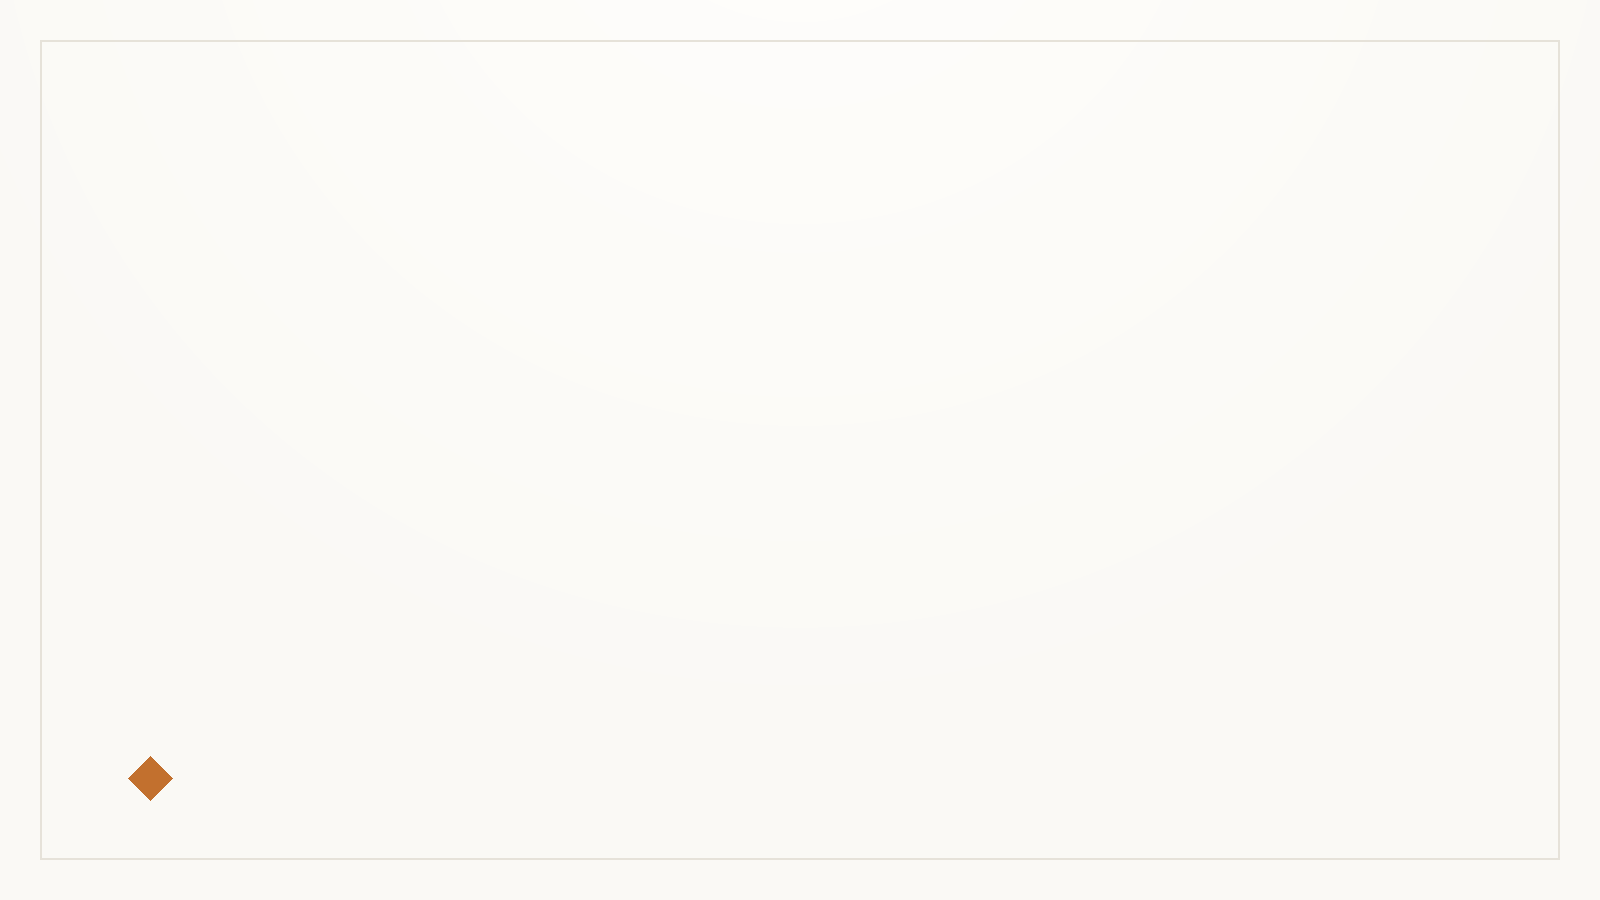
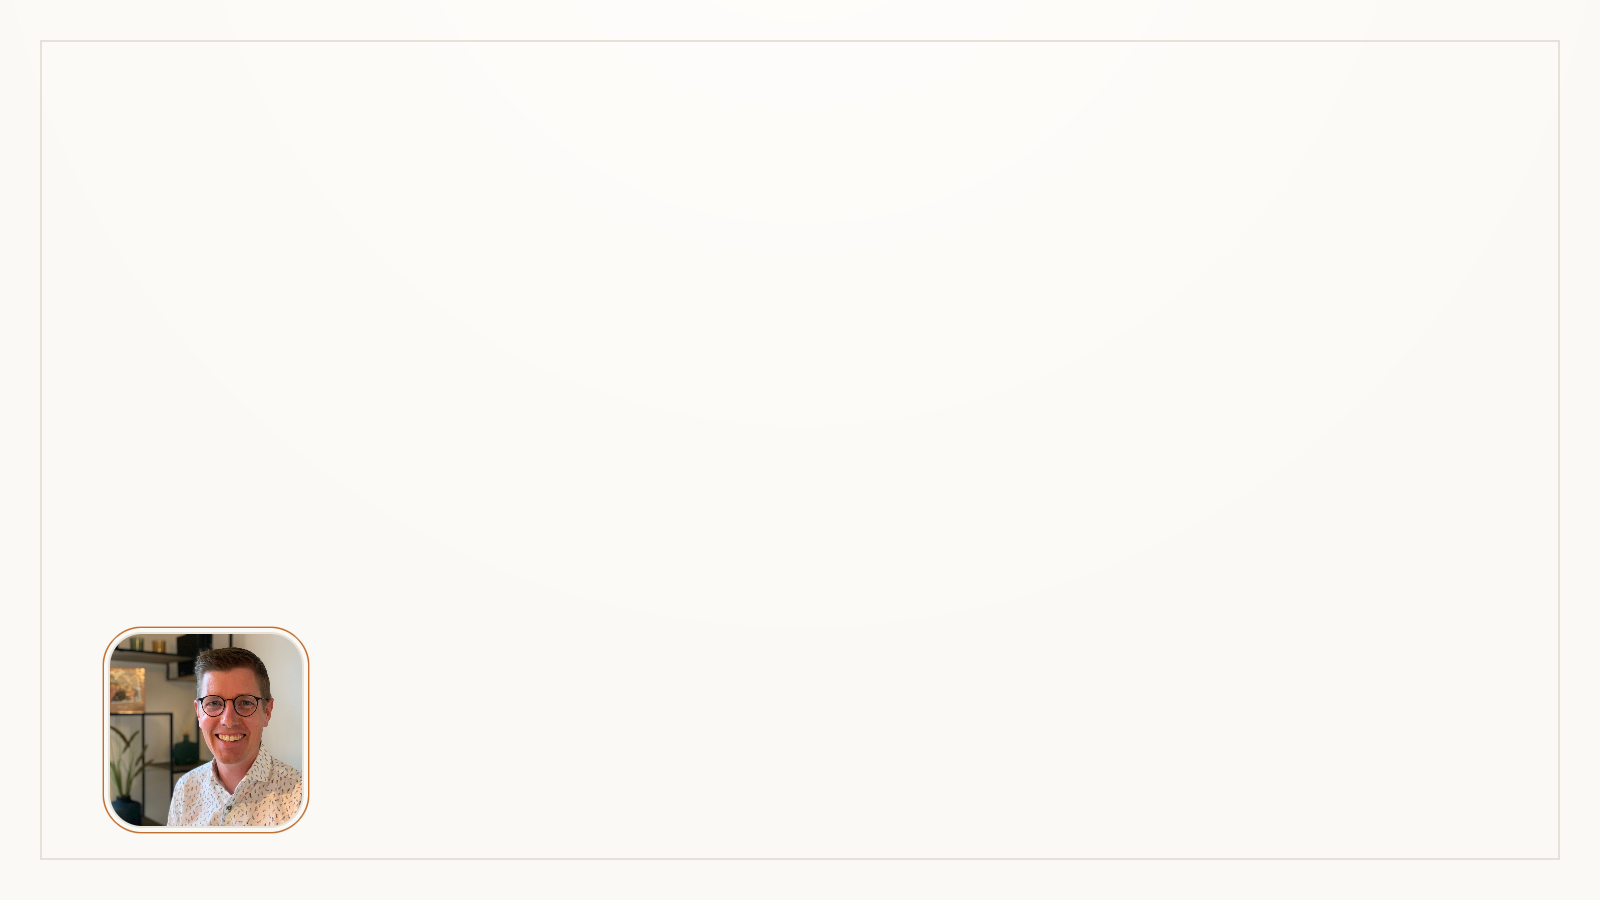
feat: Add profile picture to social images

Changed region(s): [[0.0625, 0.6844, 0.2188, 0.9333]]

diff --git a/layouts/partials/opengraph/get-featured-image.html b/layouts/partials/opengraph/get-featured-image.html
@@ -14,8 +14,8 @@
     "color" "#13202f"
     "size" 60
     "linespacing" 2
-    "x" 195
-    "y" 740
+    "x" 360
+    "y" 680
     "font" $fontBold
 ))}}
 {{ if ne .Type "page" }}

diff --git a/README.md b/README.md
@@ -44,3 +44,17 @@ hugo && npx pagefind --site public
 ```
 
 Output is in `public/`. This mirrors what Netlify runs.
+
+## Testing social images
+
+Each page gets an Open Graph / Twitter card image generated at build time by `layouts/partials/opengraph/get-featured-image.html`. The generator starts from `assets/images/twittercard/template.png` and overlays the page title, tags, and "Wim Deblauwe" onto it.
+
+To check what a given page's card looks like:
+
+1. Build the site: `hugo`.
+2. Open the rendered page in `public/<path>/index.html` and locate the `<meta name="twitter:image" ...>` (or `og:image`) tag in `<head>`.
+3. Open the URL from that tag — it points to a generated PNG under `public/images/twittercard/` — to preview the card.
+
+For a final check, paste the deployed page URL into the [Facebook Sharing Debugger](https://developers.facebook.com/tools/debug/) or [X Card Validator](https://cards-dev.twitter.com/validator) to see how the card renders on each platform.
+
+If you change `template.png`, also re-check the overlay coordinates in `get-featured-image.html` — the `x`/`y` values assume the existing template layout.